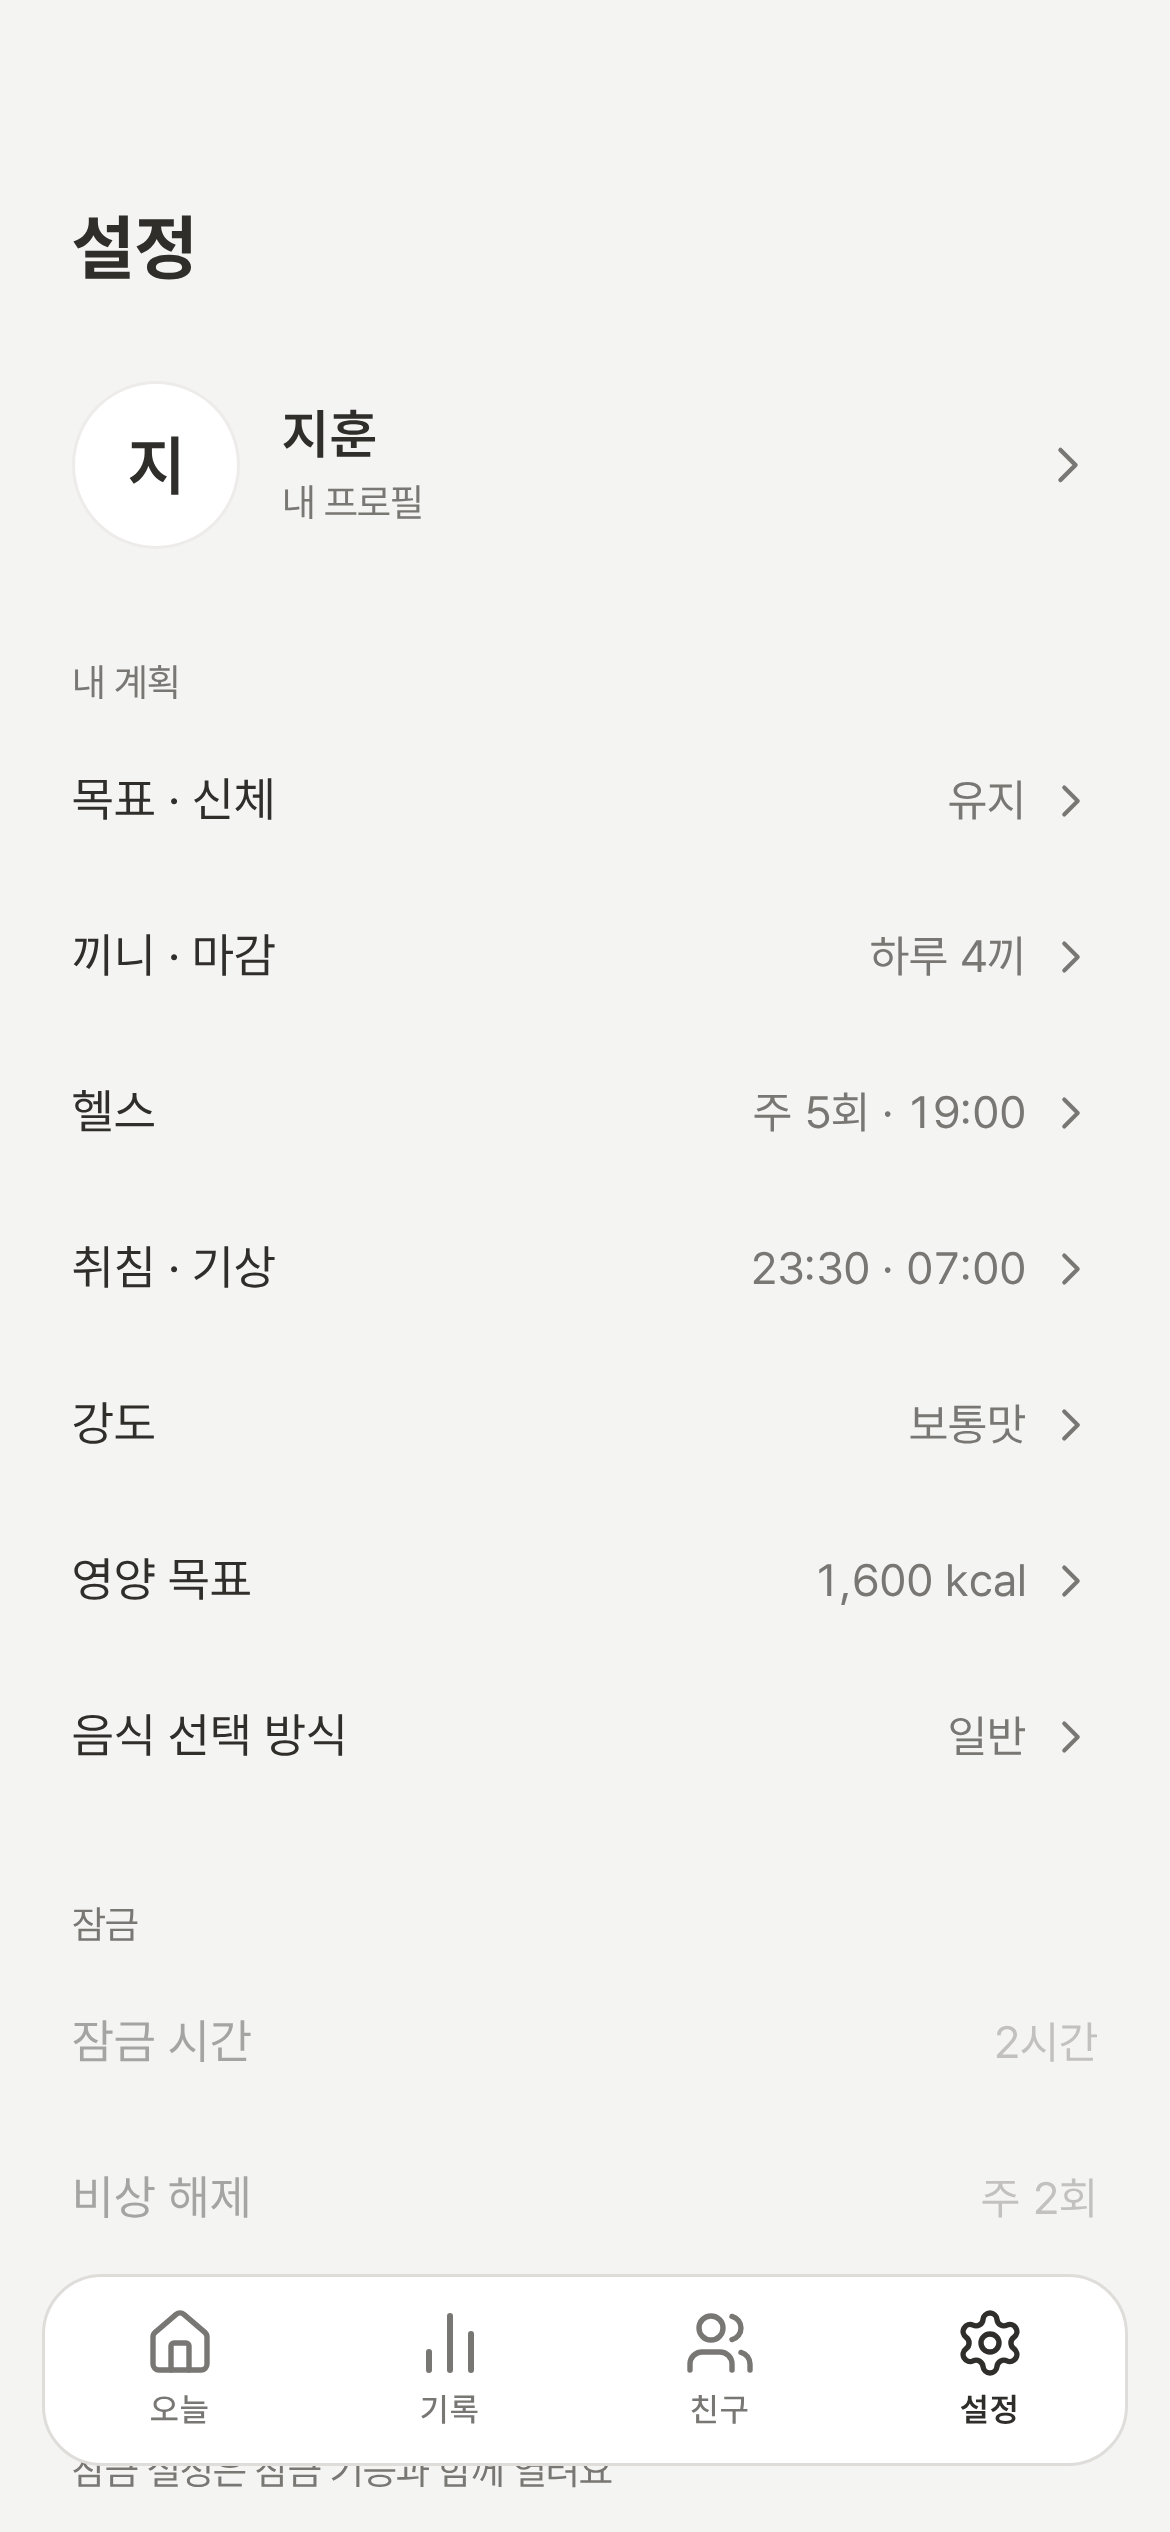
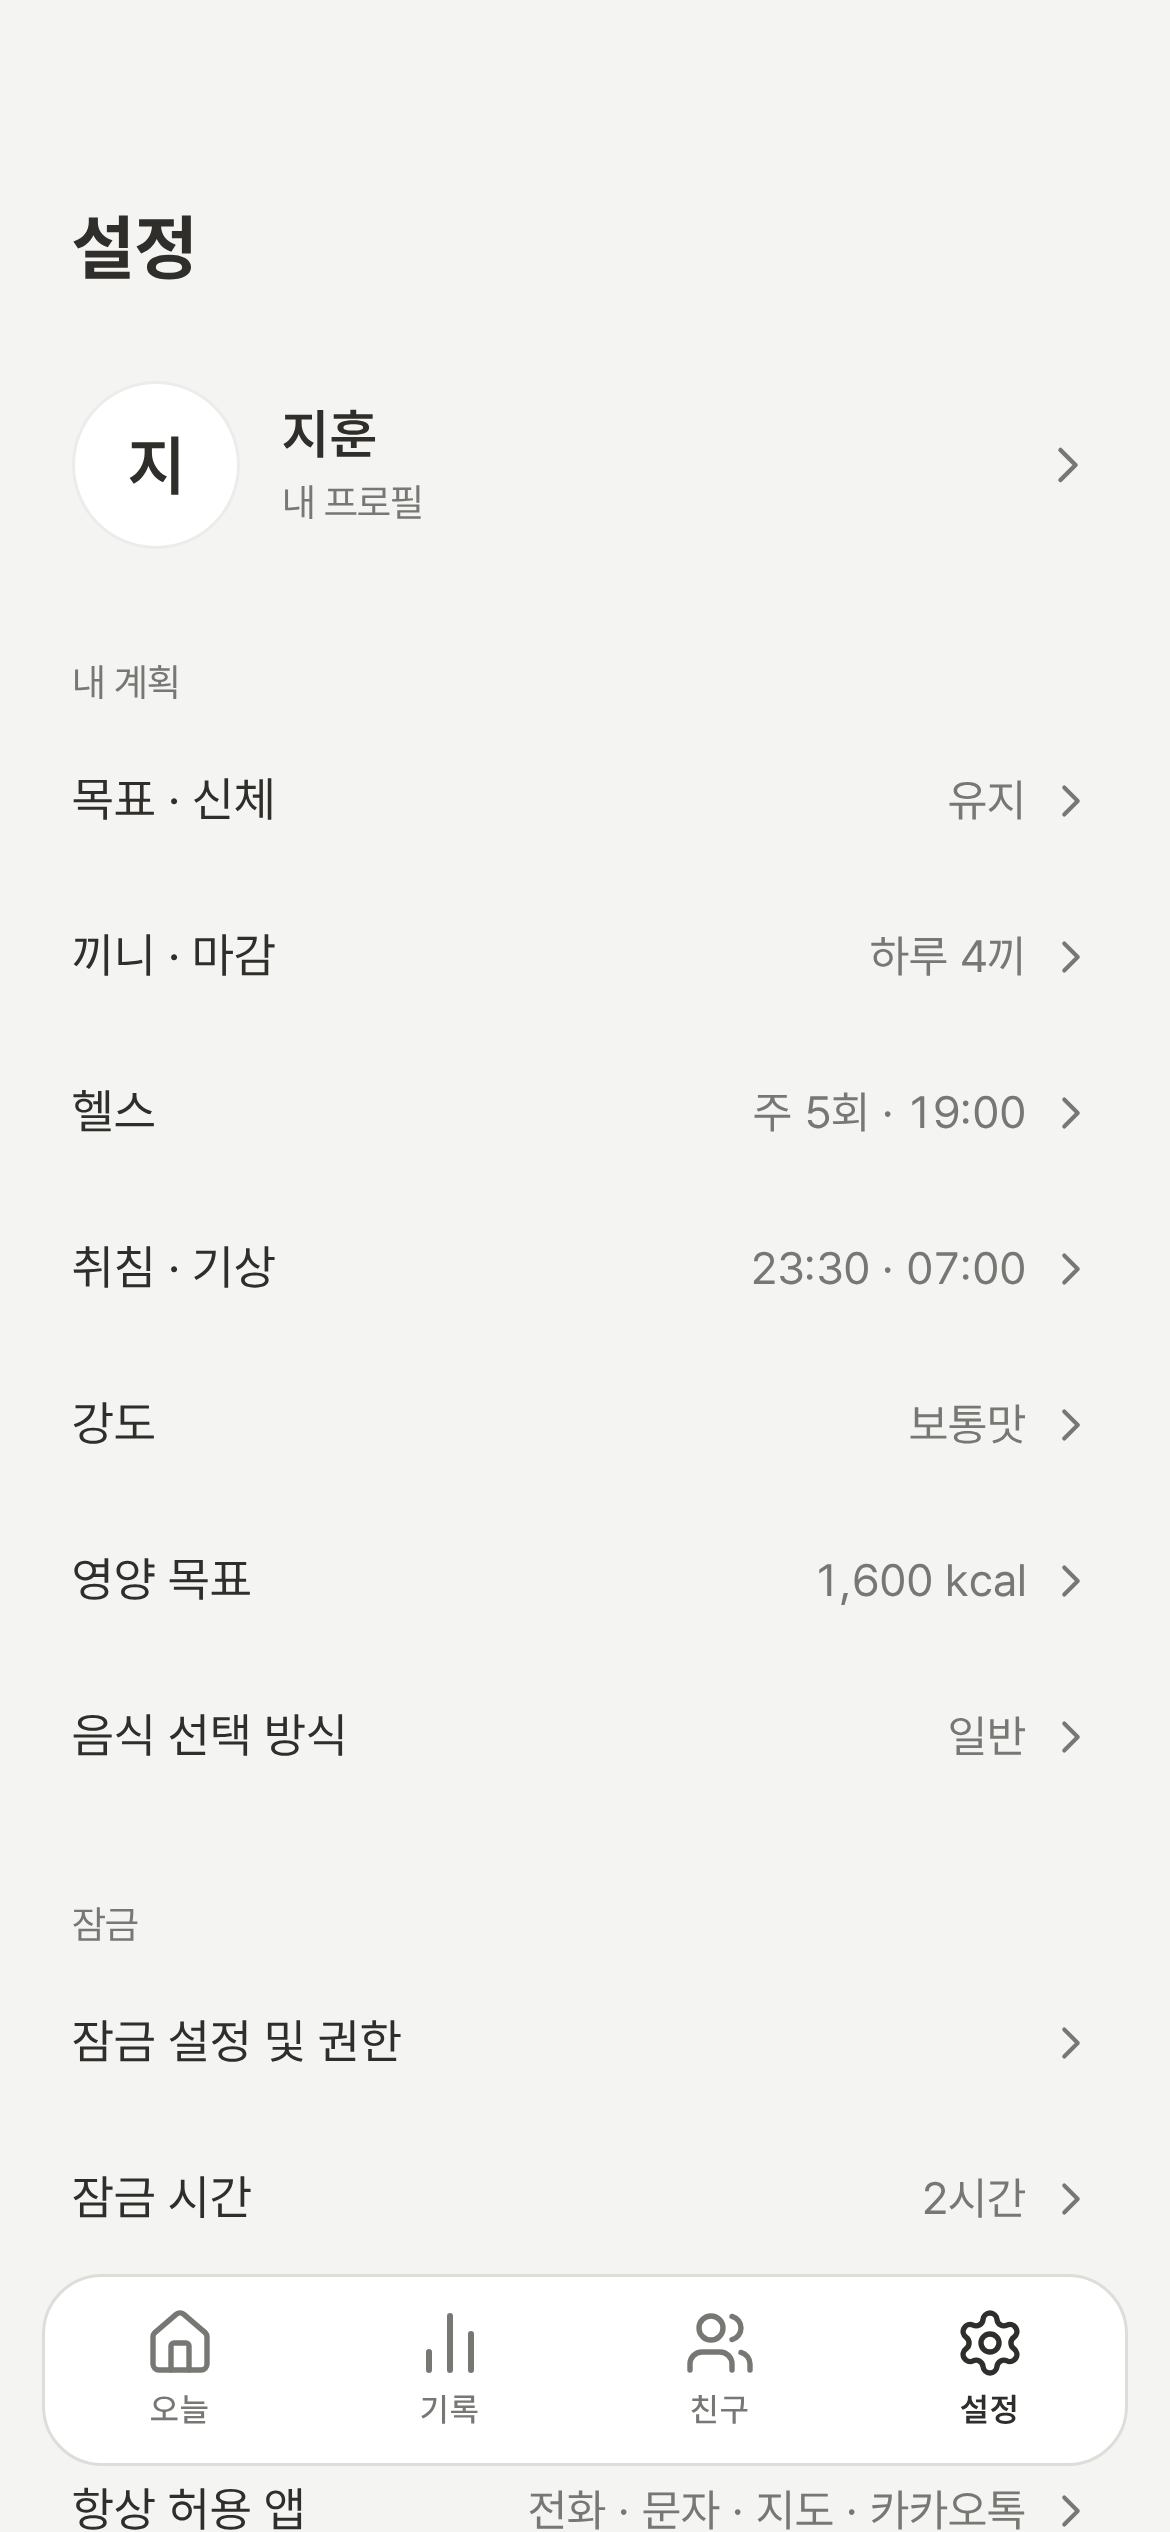
앱: 목표 이름에 뜻을 붙임 — 다이어트 (감량) · 유지 · 린매스업 (천천히 증량) · 벌크업 (빠르게 증량)
Claude-Session: https://claude.ai/code/session_01GJmBvgDyKjhrHvc96oCA2x

diff --git a/app/src/features/nutrition/steps/PlanStep.tsx b/app/src/features/nutrition/steps/PlanStep.tsx
@@ -285,6 +285,6 @@ const styles = StyleSheet.create({
 
 const makeStyles = (c: Palette) =>
   StyleSheet.create({
-    label: { ...text.label, color: c.text },
+    label: { ...text.label, color: c.text, flexShrink: 1 },
     foldTitle: { ...text.heading, fontFamily: fonts.semibold, color: c.text },
   });
